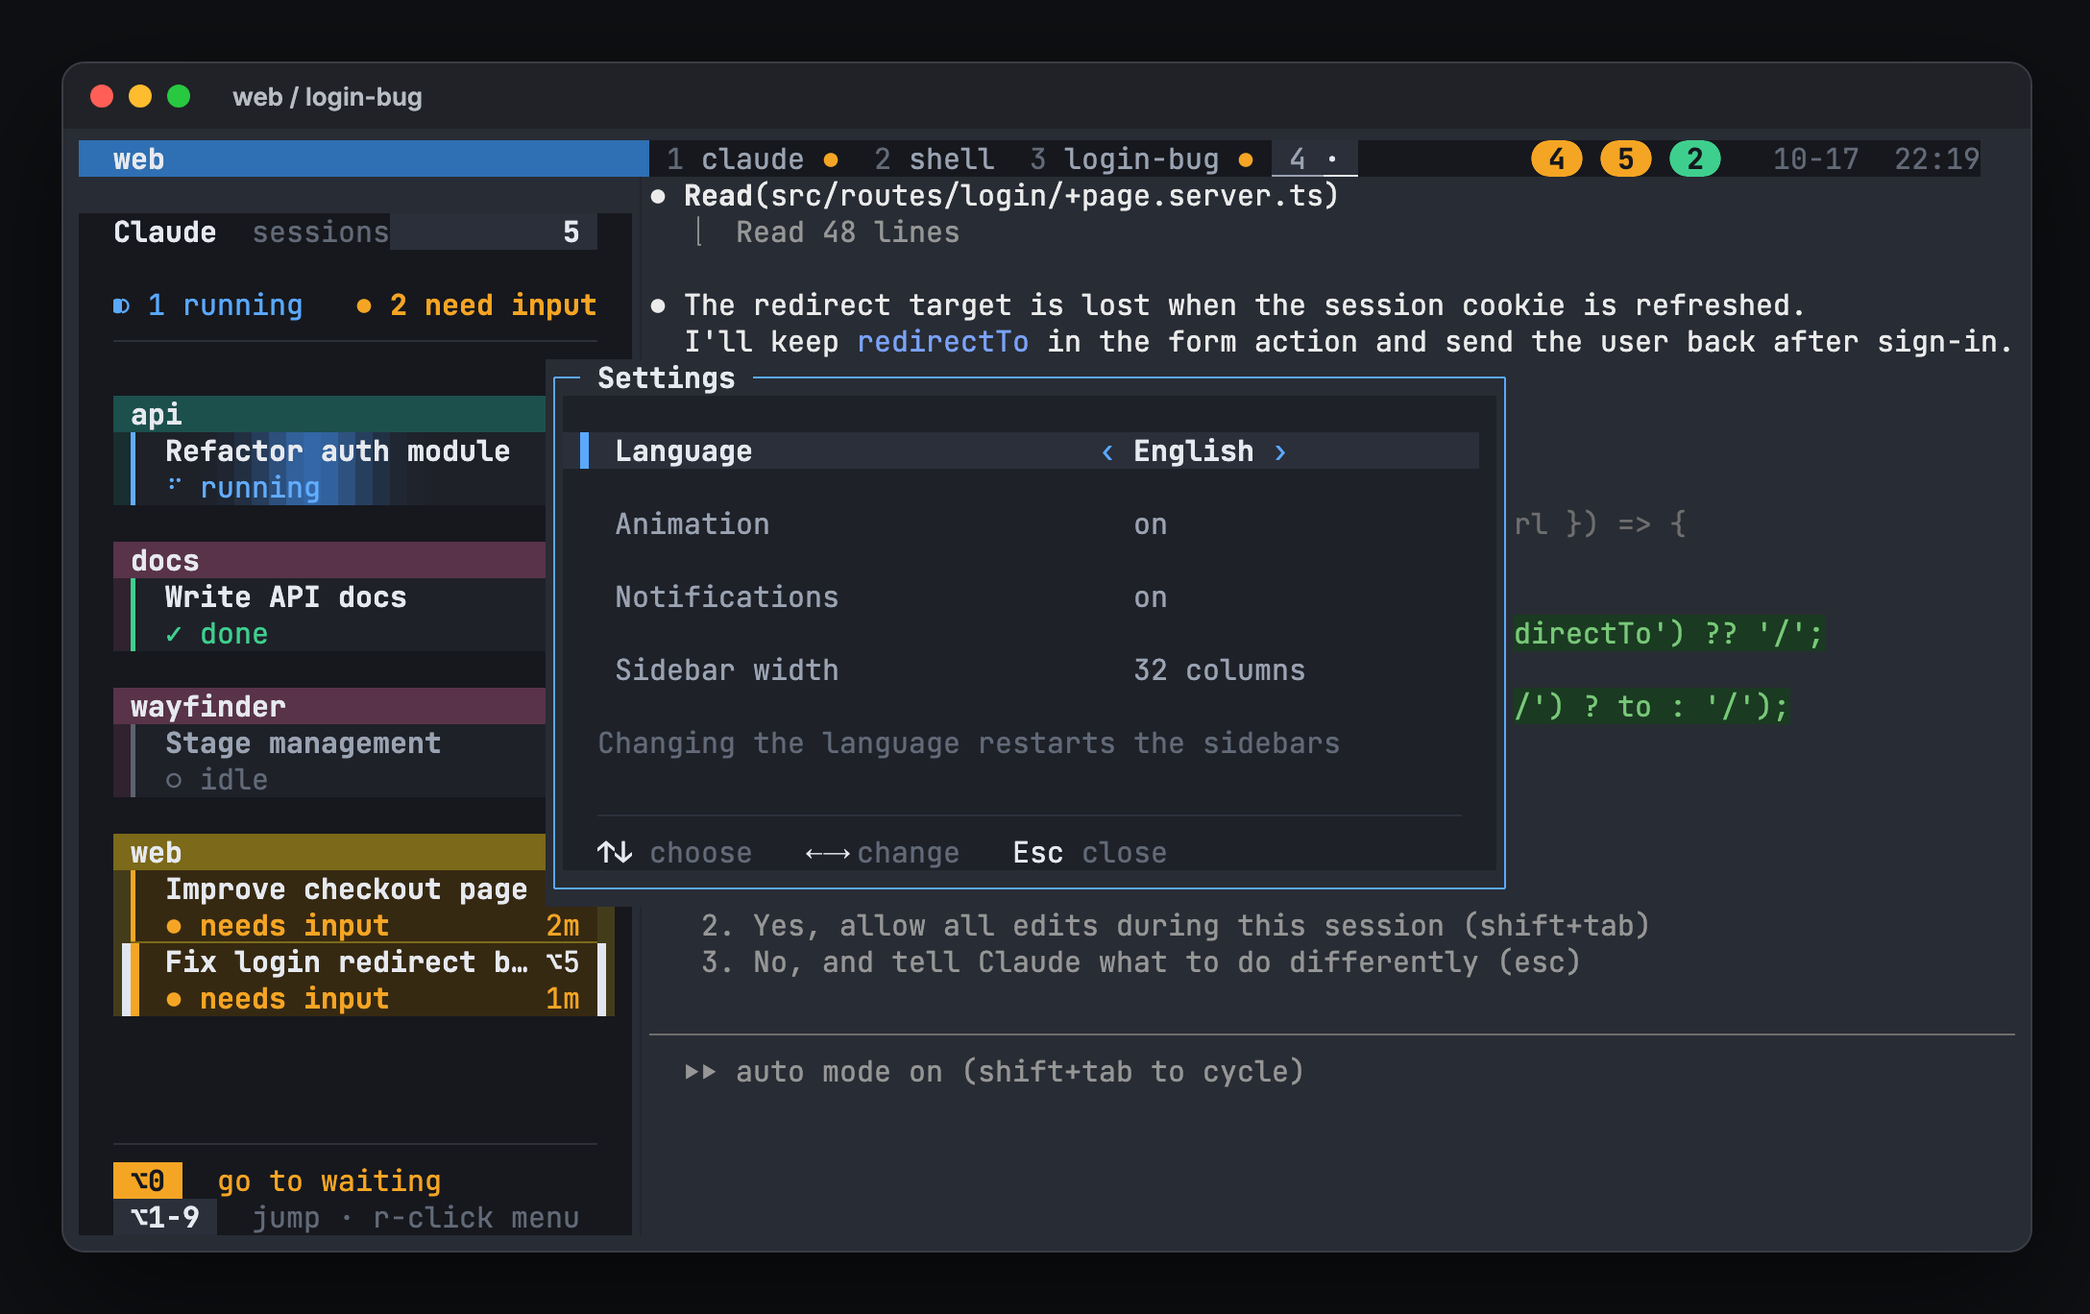
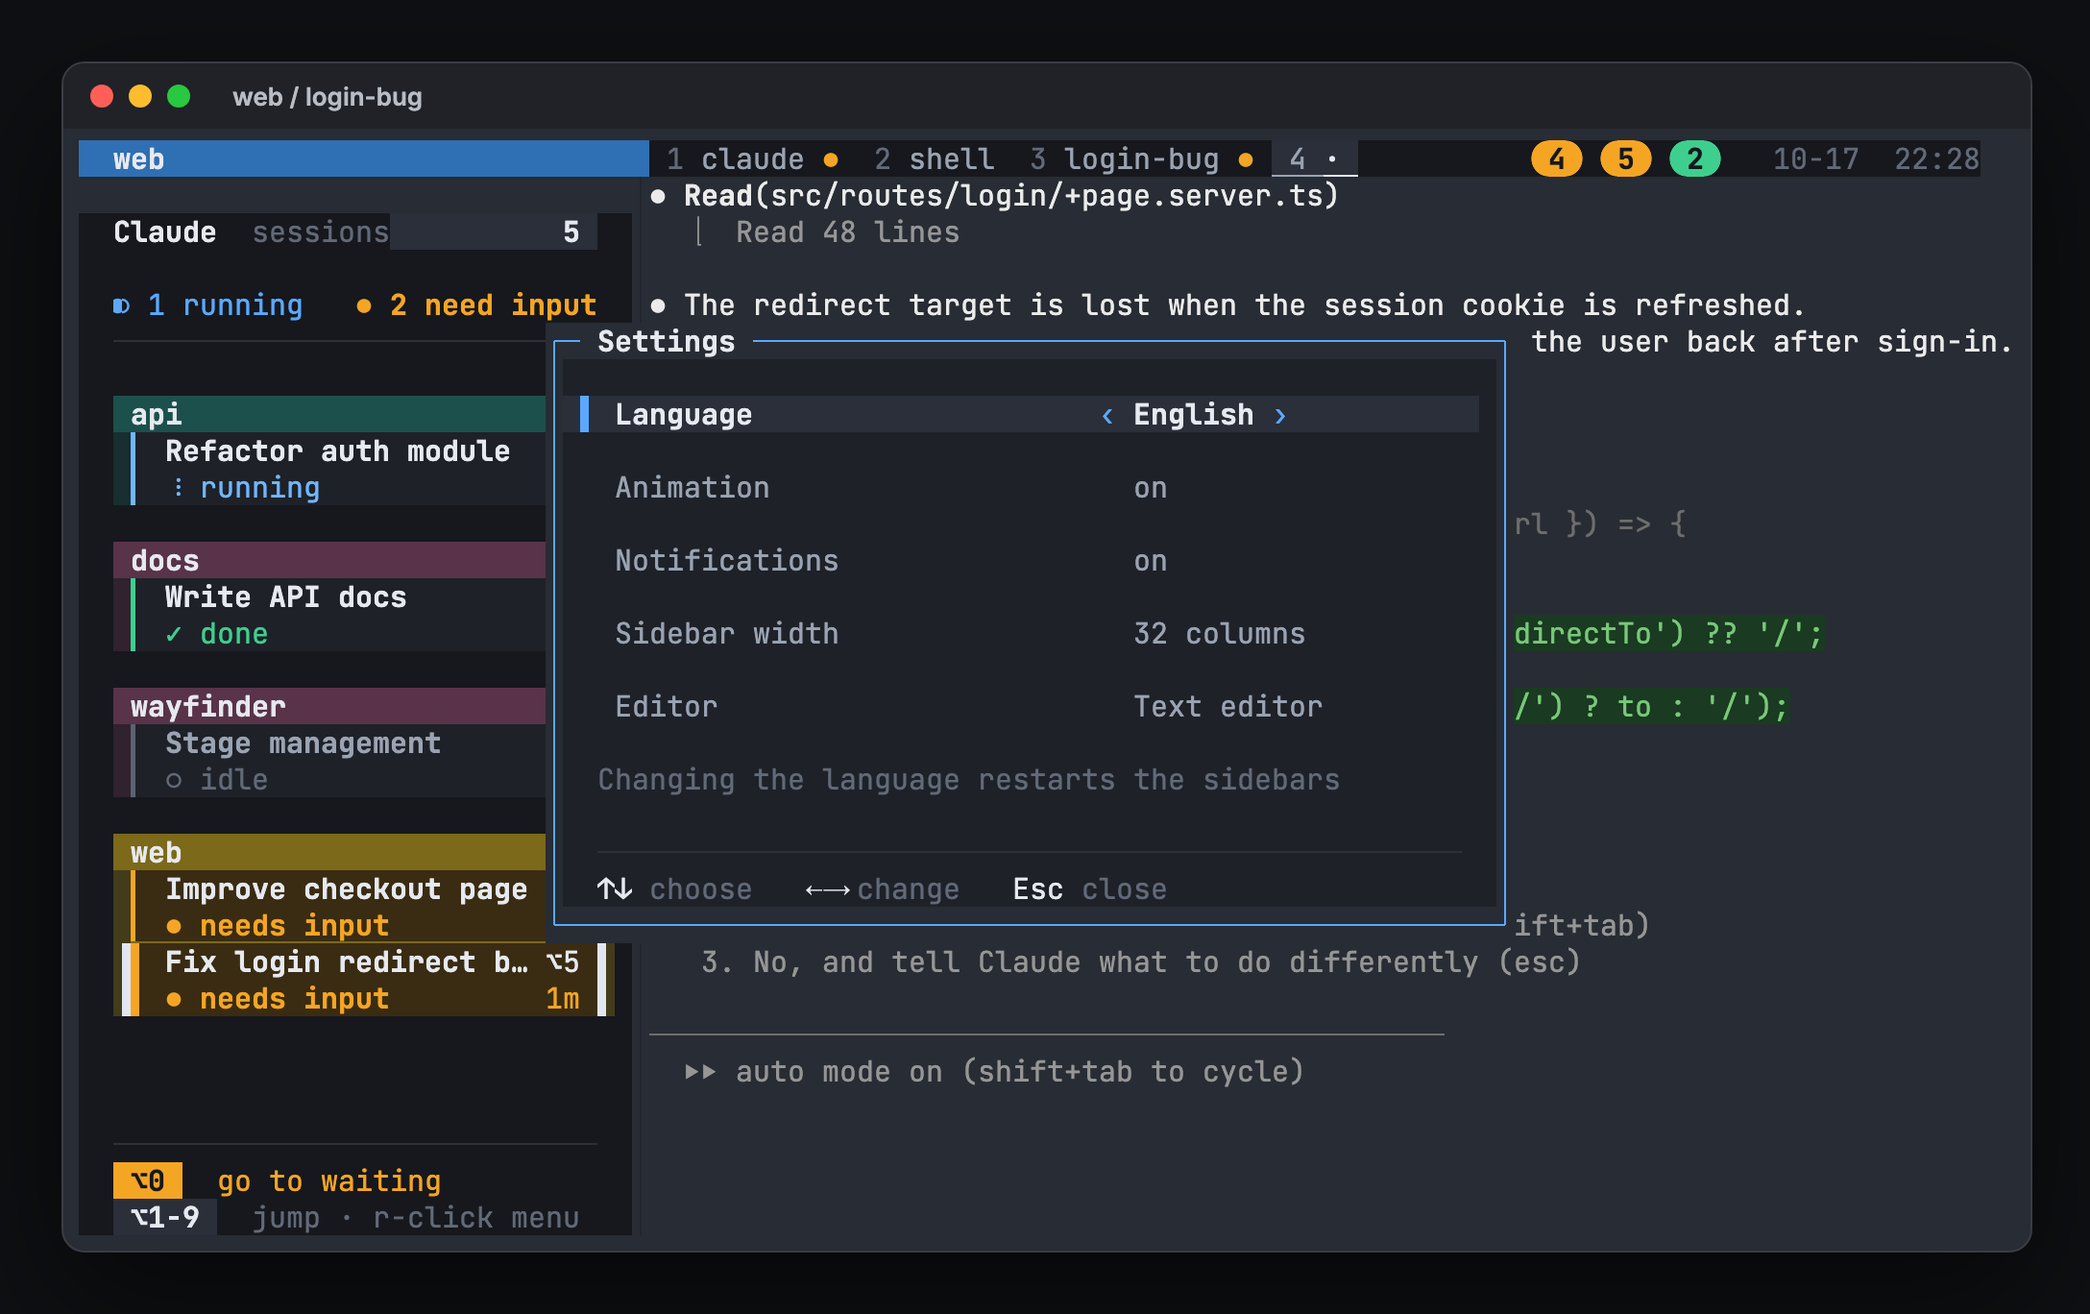
Open path: editor from Settings; from another Mac's screen, open it there
Settings gets Editor (VS Code, Cursor, Zed, Sublime Text, text editor)
for Enter in the open-path popup. hivemux connect passes this Mac's name
(HIVEMUX_FROM) and hivemux-attach records it per screen; on such a screen
VS Code / Cursor requests go to @hivemux-edit-<Mac>, and that Mac's
hivemux-ports opens the file over Remote-SSH. @hivemux-seen-<Mac> tells
the popup the request will be picked up; otherwise it opens here.

Claude-Session: https://claude.ai/code/session_01DeGU8b5o6dBWL7LV6J71n7

Changed region(s): [[0.25, 0.2456, 0.7188, 0.614], [0.25, 0.6447, 0.7188, 0.7368], [0.0938, 0.307, 0.1875, 0.3991]]

diff --git a/docs/guide.html b/docs/guide.html
@@ -517,7 +517,7 @@ claude -c
       <div class="key"><span class="combo">카드 더블클릭</span><span class="d">작업 이름 바꾸기</span></div>
       <div class="key"><span class="combo">오른쪽 클릭</span><span class="d">메뉴. 작업 카드: 이동, 이름 바꾸기, 위로 / 아래로 옮기기, 이 프로젝트에 새 Claude, 새 프로젝트. 프로젝트 이름 줄: 이름 바꾸기, 프로젝트 닫기, 새 Claude, 새 프로젝트. 빈 곳: 새 프로젝트. 모든 메뉴 맨 아래에 경로 열기, 포트 목록, 원격 연결, 설정. 마우스를 올리면 강조되고 클릭하면 실행. <kbd>↑</kbd> <kbd>↓</kbd>와 <kbd>Enter</kbd>, 괄호 안 글자로도 고름. <kbd>Esc</kbd>나 바깥 클릭으로 닫힘</span></div>
       <div class="key"><span class="combo">메뉴 → 새 프로젝트</span><span class="d">가운데 폴더 탐색 창이 열림. <kbd>Enter</kbd>는 고른 폴더에서 <code>hm</code>처럼 시작, <kbd>→</kbd> / <kbd>←</kbd>는 폴더 안 / 상위로, 글자를 치면 걸러 보기 (<code>.</code>으로 시작하면 숨김 폴더도), <kbd>Ctrl</kbd>+<kbd>N</kbd>은 새 폴더</span></div>
-      <div class="key"><span class="combo">메뉴 → 설정</span><span class="d">언어 (한국어 / English), 애니메이션 켜기 / 끄기, 알림 켜기 / 끄기, 사이드바 폭. 바꾸면 바로 적용되고 <code>~/.local/share/hivemux</code>에 저장되어 재시작 뒤에도 유지됨. 언어를 바꾸면 사이드바를 다시 띄움</span></div>
+      <div class="key"><span class="combo">메뉴 → 설정</span><span class="d">언어 (한국어 / English), 애니메이션 켜기 / 끄기, 알림 켜기 / 끄기, 사이드바 폭, 경로 열기에 쓸 편집기. 바꾸면 바로 적용되고 <code>~/.local/share/hivemux</code>에 저장되어 재시작 뒤에도 유지됨. 언어를 바꾸면 사이드바를 다시 띄움</span></div>
       <div class="key"><span class="combo">카드 / 프로젝트 이름 줄 끌기</span><span class="d">작업 순서 / 프로젝트 순서 바꾸기. 놓을 자리가 파랗게 표시되고, <kbd>⌥</kbd>+숫자 번호와 맨 위 창 목록도 같은 순서를 따름. 작업은 같은 프로젝트 안에서만 옮겨짐</span></div>
       <div class="key"><span class="combo"><kbd>Ctrl</kbd>+<kbd>A</kbd> → <kbd>Shift</kbd>+<kbd>↑</kbd> / <kbd>↓</kbd></span><span class="d">지금 작업을 한 칸 위 / 아래로. 프로젝트 끝이면 프로젝트 전체가 움직임</span></div>
       <div class="key"><span class="combo">핸들 막대 끌기</span><span class="d">핸들 막대나 경계선을 끌어 사이드바 폭 바꾸기. 모든 창에 맞추고 저장. 넓히면 프로젝트 상자가 2열, 3열로 늘어남</span></div>
@@ -531,13 +531,13 @@ claude -c
       <figure><a href="img/reorder-ko.png"><img src="img/reorder-ko.png" alt="카드 끌어서 순서 바꾸기" width="1088" height="682" loading="lazy"></a><figcaption>카드 끌기: 놓을 자리가 파랗게, 끄는 카드는 흐리게</figcaption></figure>
       <figure><a href="img/new-project-ko.png"><img src="img/new-project-ko.png" alt="새 프로젝트 폴더 탐색 창" width="1088" height="682" loading="lazy"></a><figcaption>메뉴 → 새 프로젝트: 폴더 탐색 창. 이미 열린 프로젝트에 "열린 세션" 표시</figcaption></figure>
       <figure><a href="img/ports-ko.png"><img src="img/ports-ko.png" alt="포트 목록 팝업" width="1088" height="682" loading="lazy"></a><figcaption>메뉴 → 포트 목록 (<kbd>Option</kbd>+<kbd>W</kbd>): 원격으로 붙은 Mac 으로 이어진 개발 서버</figcaption></figure>
-      <figure><a href="img/settings-ko.png"><img src="img/settings-ko.png" alt="설정 창" width="1088" height="682" loading="lazy"></a><figcaption>메뉴 → 설정: 언어, 애니메이션, 알림, 사이드바 폭</figcaption></figure>
+      <figure><a href="img/settings-ko.png"><img src="img/settings-ko.png" alt="설정 창" width="1088" height="682" loading="lazy"></a><figcaption>메뉴 → 설정: 언어, 애니메이션, 알림, 사이드바 폭, 편집기</figcaption></figure>
     </div>
     <h3>파일 경로 열기</h3>
     <div class="keys">
       <div class="key"><span class="combo"><kbd>Option</kbd>+<kbd>O</kbd></span><span class="d">지금 칸의 최근 출력에서 파일 경로를 골라 열기 팝업. 오른쪽 클릭 메뉴 → 경로 열기와 같음</span></div>
       <div class="key"><span class="combo">팝업에서 글자 입력</span><span class="d">경로 걸러 보기</span></div>
-      <div class="key"><span class="combo"><kbd>Enter</kbd></span><span class="d">VS Code에서 열기. 줄 번호가 있으면 그 줄로</span></div>
+      <div class="key"><span class="combo"><kbd>Enter</kbd></span><span class="d">설정에서 고른 편집기(VS Code, Cursor, Zed, Sublime Text, 텍스트 편집기)로 열기. 줄 번호가 있으면 그 줄로</span></div>
       <div class="key"><span class="combo"><kbd>Tab</kbd> / <kbd>Ctrl</kbd>+<kbd>F</kbd> / <kbd>Ctrl</kbd>+<kbd>Y</kbd></span><span class="d">기본 앱으로 열기 / Finder에서 보기 / 경로 복사</span></div>
       <div class="key"><span class="combo"><kbd>⌘</kbd>+클릭</span><span class="d">Claude가 링크로 내보낸 경로와 주소를 바로 열기</span></div>
     </div>
@@ -728,7 +728,7 @@ tmux set -g @hivemux-fps 15</pre></div>
       <p>Ghostty가 Option 키를 Alt로 보내야 합니다. 설정에 들어 있지만 Ghostty를 설정 변경 전부터 켜 두었다면 완전히 종료하고 다시 여세요. 그래도 안 되면 <kbd>Ctrl</kbd>+<kbd>A</kbd> 다음 <kbd>Space</kbd>를 쓰거나 사이드바 타일을 클릭하세요.</p>
     </div></details>
     <details class="issue" data-c="term"><summary>Claude가 알려 준 파일을 바로 열고 싶다<span class="pill part tag">터미널</span></summary><div class="body">
-      <p><kbd>Option</kbd>+<kbd>O</kbd>를 누르면 그 칸의 최근 출력에 나온 파일 경로가 최근 것부터 나옵니다. 실제로 있는 파일만 보여 주고, 상대 경로는 Claude의 작업 폴더 기준으로 찾습니다. <code>파일:42</code>처럼 줄 번호가 붙어 있으면 VS Code에서 그 줄로 엽니다.</p>
+      <p><kbd>Option</kbd>+<kbd>O</kbd>를 누르면 그 칸의 최근 출력에 나온 파일 경로가 최근 것부터 나옵니다. 실제로 있는 파일만 보여 주고, 상대 경로는 Claude의 작업 폴더 기준으로 찾습니다. <code>파일:42</code>처럼 줄 번호가 붙어 있으면 설정의 편집기로 그 줄을 엽니다. 다른 Mac에서 <code>hivemux connect</code>로 붙은 화면에서는, 편집기가 VS Code나 Cursor면 <b>그 Mac(접속한 쪽)</b>에서 원격 SSH로 파일을 엽니다(그 Mac에 Remote - SSH 확장이 있어야 합니다). 그 밖의 편집기, <kbd>Tab</kbd>, <kbd>Ctrl</kbd>+<kbd>F</kbd>는 파일이 있는 이 Mac에서 열립니다.</p>
       <p class="why">⌘+클릭은 Claude가 경로를 링크로 내보낼 때만 됩니다. 링크 설정은 Ghostty를 다시 열어 tmux에 새로 붙고, Claude를 새로 시작한 뒤부터 적용됩니다.</p>
     </div></details>
     <details class="issue" data-c="term"><summary>Shift+Enter가 줄바꿈 대신 전송된다<span class="pill part tag">터미널</span></summary><div class="body">

diff --git a/docs/guide.en.html b/docs/guide.en.html
@@ -507,7 +507,7 @@ claude -c
       <div class="key"><span class="combo">Double-click a card</span><span class="d">Rename the task</span></div>
       <div class="key"><span class="combo">Right click</span><span class="d">Menu. On a task: go to, rename, move up / down, new Claude in this project, new project. On a project name: rename, close project, new Claude, new project. On empty space: new project. Every menu ends with Open path, Ports, Connect to… and Settings. Hover highlights, a click runs; <kbd>↑</kbd> <kbd>↓</kbd> and <kbd>Enter</kbd> or the letter shown also choose. <kbd>Esc</kbd> or a click outside closes it</span></div>
       <div class="key"><span class="combo">Menu → New project</span><span class="d">A folder browser opens in the middle. <kbd>Enter</kbd> starts in the selected folder like <code>hm</code>, <kbd>→</kbd> / <kbd>←</kbd> move in and out, typing filters (start with <code>.</code> for hidden folders), <kbd>Ctrl</kbd>+<kbd>N</kbd> makes a new folder</span></div>
-      <div class="key"><span class="combo">Menu → Settings</span><span class="d">Language (한국어 / English), animation on / off, notifications on / off, sidebar width. Applied at once and saved in <code>~/.local/share/hivemux</code>, so they survive restarts. Changing the language restarts the sidebars</span></div>
+      <div class="key"><span class="combo">Menu → Settings</span><span class="d">Language (한국어 / English), animation on / off, notifications on / off, sidebar width, the editor for Open path. Applied at once and saved in <code>~/.local/share/hivemux</code>, so they survive restarts. Changing the language restarts the sidebars</span></div>
       <div class="key"><span class="combo">Drag a card / project header</span><span class="d">Reorder tasks / projects. The drop target turns blue; <kbd>⌥</kbd>+number and the top window list follow the same order. A task moves only within its project</span></div>
       <div class="key"><span class="combo"><kbd>Ctrl</kbd>+<kbd>A</kbd> → <kbd>Shift</kbd>+<kbd>↑</kbd> / <kbd>↓</kbd></span><span class="d">Move the current task up / down one step; at a project's edge the whole project moves</span></div>
       <div class="key"><span class="combo">Drag the grip</span><span class="d">Drag the grip bar or the border to resize the sidebar; applied to all windows and saved. Wider, the project boxes go into 2 or 3 columns</span></div>
@@ -521,13 +521,13 @@ claude -c
       <figure><a href="img/reorder-en.png"><img src="img/reorder-en.png" alt="Dragging a card to reorder" width="1088" height="682" loading="lazy"></a><figcaption>Dragging a card: the drop target turns blue, the dragged card dims</figcaption></figure>
       <figure><a href="img/new-project-en.png"><img src="img/new-project-en.png" alt="New project folder browser" width="1088" height="682" loading="lazy"></a><figcaption>Menu → New project: the folder browser; projects already open are marked "open"</figcaption></figure>
       <figure><a href="img/ports-en.png"><img src="img/ports-en.png" alt="Ports popup" width="1088" height="682" loading="lazy"></a><figcaption>Menu → Ports (<kbd>Option</kbd>+<kbd>W</kbd>): dev servers forwarded to a Mac connected here</figcaption></figure>
-      <figure><a href="img/settings-en.png"><img src="img/settings-en.png" alt="Settings popup" width="1088" height="682" loading="lazy"></a><figcaption>Menu → Settings: language, animation, notifications, sidebar width</figcaption></figure>
+      <figure><a href="img/settings-en.png"><img src="img/settings-en.png" alt="Settings popup" width="1088" height="682" loading="lazy"></a><figcaption>Menu → Settings: language, animation, notifications, sidebar width, editor</figcaption></figure>
     </div>
     <h3>Open file paths</h3>
     <div class="keys">
       <div class="key"><span class="combo"><kbd>Option</kbd>+<kbd>O</kbd></span><span class="d">Popup listing file paths from this pane's recent output; same as right-click menu → Open path</span></div>
       <div class="key"><span class="combo">Type in the popup</span><span class="d">Filter the paths</span></div>
-      <div class="key"><span class="combo"><kbd>Enter</kbd></span><span class="d">Open in VS Code, at the line when there is one</span></div>
+      <div class="key"><span class="combo"><kbd>Enter</kbd></span><span class="d">Open in the editor chosen in Settings (VS Code, Cursor, Zed, Sublime Text, text editor), at the line when there is one</span></div>
       <div class="key"><span class="combo"><kbd>Tab</kbd> / <kbd>Ctrl</kbd>+<kbd>F</kbd> / <kbd>Ctrl</kbd>+<kbd>Y</kbd></span><span class="d">Default app / reveal in Finder / copy path</span></div>
       <div class="key"><span class="combo"><kbd>⌘</kbd>+click</span><span class="d">Open paths and URLs that Claude printed as links</span></div>
     </div>
@@ -719,7 +719,7 @@ tmux set -g @hivemux-fps 15</pre></div>
       <p>Ghostty has to send Option as Alt. <code>hivemux setup</code> sets this, but a Ghostty that was open before needs a full quit and restart. Otherwise use <kbd>Ctrl</kbd>+<kbd>A</kbd> then <kbd>Space</kbd>, or click a card.</p>
     </div></details>
     <details class="issue" data-c="term"><summary>Open a file Claude mentioned<span class="pill part tag">Terminal</span></summary><div class="body">
-      <p><kbd>Option</kbd>+<kbd>O</kbd> lists file paths from that pane's recent output, newest first. Only existing files are shown, and relative paths are resolved against Claude's working folder. Paths with a line number, like <code>file:42</code>, open in VS Code at that line.</p>
+      <p><kbd>Option</kbd>+<kbd>O</kbd> lists file paths from that pane's recent output, newest first. Only existing files are shown, and relative paths are resolved against Claude's working folder. Paths with a line number, like <code>file:42</code>, open at that line in the editor from Settings. On a screen attached from another Mac with <code>hivemux connect</code>, VS Code and Cursor open the file on <b>that Mac (the one you connect from)</b> over Remote-SSH (it needs the Remote - SSH extension there). Other editors, <kbd>Tab</kbd> and <kbd>Ctrl</kbd>+<kbd>F</kbd> open it on this Mac, where the file is.</p>
       <p class="why">⌘+click works only where Claude prints the path as a link. Link support applies after Ghostty reattaches to tmux and Claude is restarted.</p>
     </div></details>
     <details class="issue" data-c="term"><summary>Shift+Enter sends instead of adding a new line<span class="pill part tag">Terminal</span></summary><div class="body">

diff --git a/README.md b/README.md
@@ -39,7 +39,9 @@ reboot the Mac and everything comes back, with each Claude resumed in its pane.
 - **Projects.** `hm ~/code/api` opens one tmux session per folder with a named
   Claude window and a shell window.
 - **Open paths Claude mentions.** `Option+O` lists file paths from the pane's
-  recent output; Enter opens VS Code at the line.
+  recent output; Enter opens it at the line in the editor chosen in Settings
+  (VS Code, Cursor, Zed, Sublime Text or the text editor). From a screen
+  attached from another Mac, VS Code and Cursor open it on that Mac over Remote-SSH.
 - **From your phone.** Optionally turns on Remote Control for every session, so
   the Claude app shows and drives the same sessions.
 - **Polite installer.** Adds marked blocks to your configs and removes exactly
@@ -112,10 +114,10 @@ new hooks once restarted. `hivemux version` shows the installed version; see
 | click card / project name | jump · double click a card: rename. A project whose Claude windows are all closed stays listed ("no Claude") until you close it |
 | right click | menu. On a task: go to, rename, move up/down, new Claude, new project. On a project name: rename, close project, new Claude, new project. On empty space: new project. Every menu ends with Open path…, Ports…, Connect to… and Settings. Choose with the mouse, `↑↓` `Enter` or the letter shown; `Esc` closes |
 | menu → New project | folder browser in the middle: `Enter` starts the selected folder (like `hm`), `→` / `←` in and out, type to filter, `Ctrl+N` new folder |
-| menu → Settings | language (한국어 / English), animation, notifications, sidebar width; applied at once and saved |
+| menu → Settings | language (한국어 / English), animation, notifications, sidebar width, editor for Open path; applied at once and saved |
 | drag card / project header | reorder tasks / projects |
 | `prefix Shift+↑` / `↓` | move the current task up / down (at a project's edge, the project moves) |
-| `Option+O` / menu → Open path | open a file path from recent output (Enter VS Code, Tab default app, ^F Finder, ^Y copy) |
+| `Option+O` / menu → Open path | open a file path from recent output (Enter editor from Settings, Tab default app, ^F Finder, ^Y copy) |
 | `Option+W` / menu → Ports | dev server ports forwarded between Macs (Enter opens in the browser of the Mac they reach, ^Y copies the address) |
 | `prefix Shift+C` | new window with a named Claude in this folder |
 | menu → Connect to… | another Mac's hivemux in a new Ghostty window (hosts added with `hivemux connect --add`) |

diff --git a/CHANGELOG.md b/CHANGELOG.md
@@ -12,6 +12,9 @@
   Mac you connect from, `Ctrl+Y` copies the address. `hivemux connect
   --ports` lists them in a terminal
 - The right-click menu has Open path… (`Option+O`) too
+- Settings → Editor picks what Enter in Open path uses: VS Code, Cursor, Zed,
+  Sublime Text or the text editor. On a screen attached from another Mac,
+  VS Code and Cursor open the file on that Mac over Remote-SSH
 
 ## 0.1.22 — 2026-10-17
 
